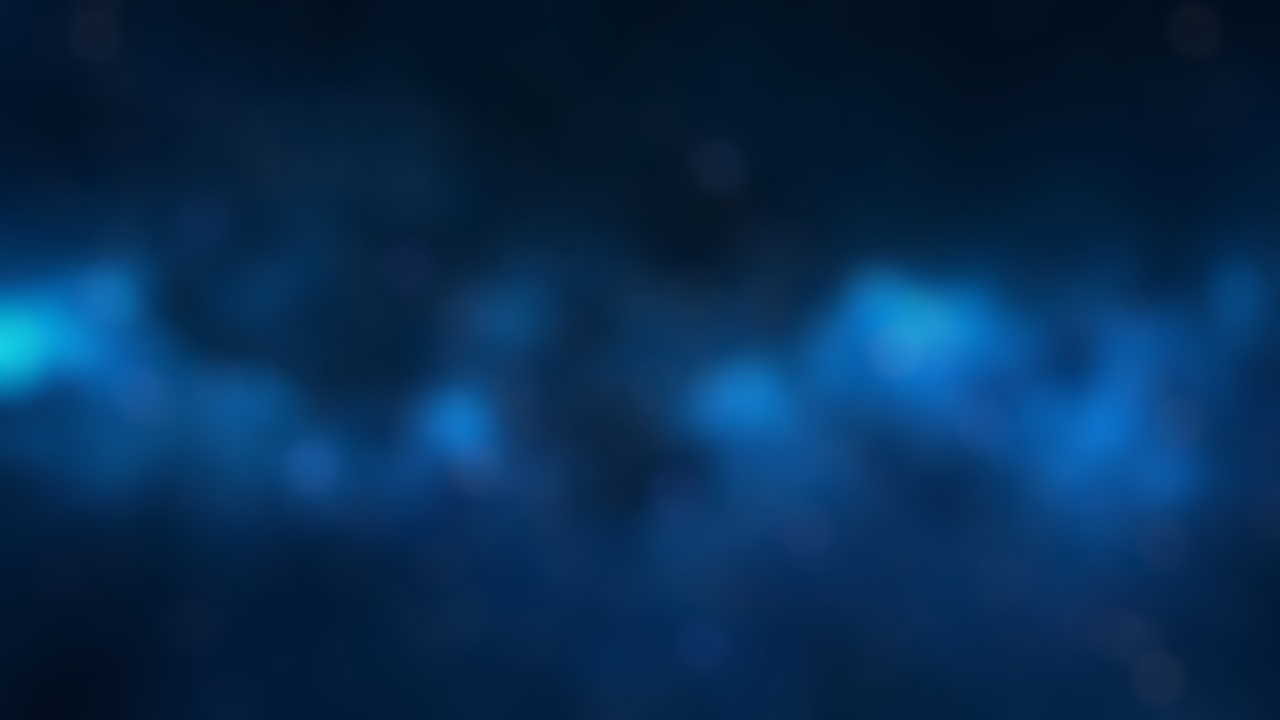
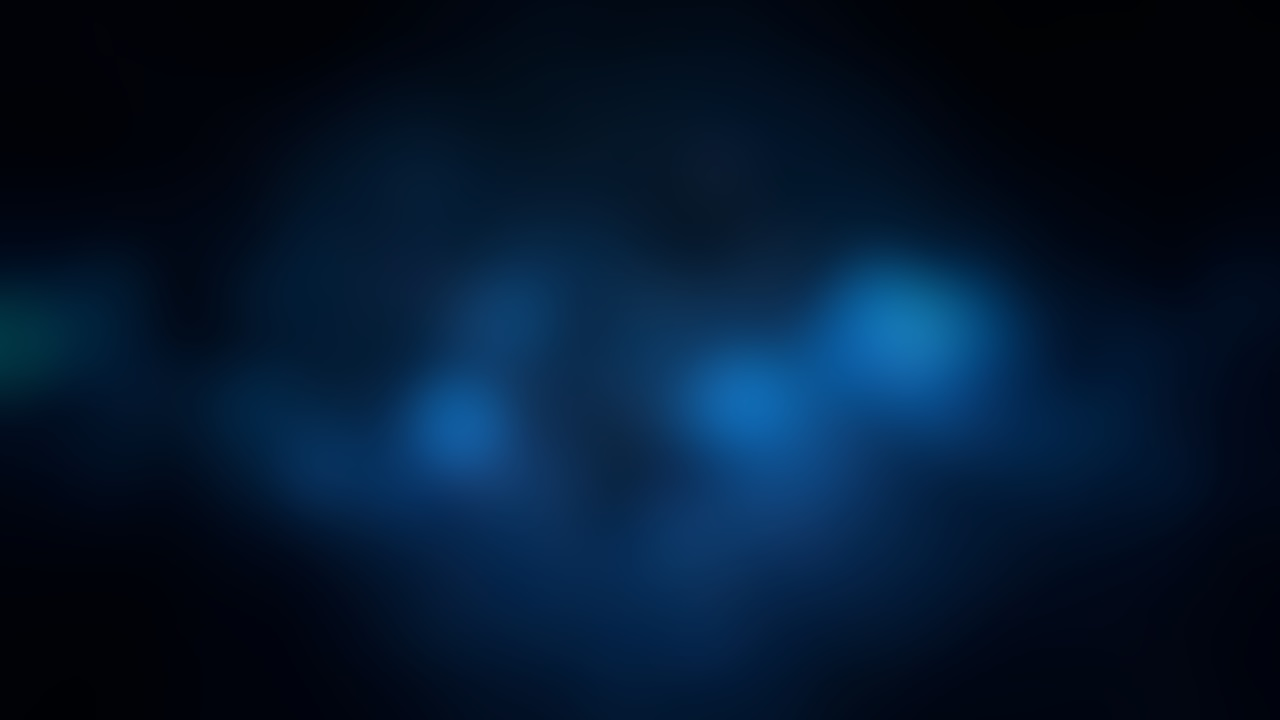
gui design

diff --git a/Fahrer.html b/Fahrer.html
@@ -25,38 +25,37 @@
     <div class="content">
         <div class="heading">Fahrer</div>
 
-        <h3>Müller, Freßgasse 11, 65000 Frankfurt</h3>
+        <section class="order">
+            <form action="https://wwwold.fbi.h-da.de/cgi-bin/Echo.pl">
+                <div class="customername">Mock-Name</div>|
+                <div class="customeradress">Mock-Adresse</div>
+                <section class="price">Preis: 13€</section>
+                <div class="customerform">
+                    <div class="radio-group">
+                        <input type="radio" id="option-one" name="order" value="baked"><label for="option-one">Gebacken</label>
+                        <input type="radio" id="option-two" name="order" value="onroad"><label for="option-two">Unterwegs</label>
+                        <input type="radio" id="option-three" name="order" value="delivered"><label for="option-three">Ausgeliefert</label>
+                    </div>
+                    <input class="button" type="submit" value="Submit">
+                </div>
+            </form>
+        </section>
+        <section class="order">
+            <form action="https://wwwold.fbi.h-da.de/cgi-bin/Echo.pl">
+                <div class="customername">Mock-Name</div>|
+                <div class="customeradress">Mock-Adresse</div>
+                <section class="price">Preis: 13€</section>
+                <div class="customerform">
+                    <div class="radio-group">
+                        <input type="radio" id="option-one" name="order" value="baked"><label for="option-one">Gebacken</label>
+                        <input type="radio" id="option-two" name="order" value="onroad"><label for="option-two">Unterwegs</label>
+                        <input type="radio" id="option-three" name="order" value="delivered"><label for="option-three">Ausgeliefert</label>
+                    </div>
+                    <input class="button" type="submit" value="Submit">
+                </div>
+            </form>
+        </section>
 
-        Tonno, Calzone, Margherita, Hawaii, Tonno
-        <br>
-        <br> Preis: 13€
-        <br>
-        <br>gebacken &ensp;unterwegs&ensp; ausgeliefert
-        <form action="https://wwwold.fbi.h-da.de/cgi-bin/Echo.pl">
-            &ensp;&ensp;
-            <input type="radio" name="oder1" value="baked">&emsp;&emsp; &ensp;&ensp;&ensp;
-            <input type="radio" name="oder1" value="onroad">&emsp;&emsp; &ensp;
-            <input type="radio" name="oder1" value="delivered">&emsp;&emsp;
-            <input type="submit" value="Submit">
-        </form>
-
-        <br>
-        <br>
-
-        <h3>Meier, Haupstr 5</h3>
-
-        Tonno, Tonno, Margherita
-        <br>
-        <br> Preis: 10,50€
-        <br>
-        <br>gebacken &ensp;unterwegs&ensp; ausgeliefert
-        <form action="https://wwwold.fbi.h-da.de/cgi-bin/Echo.pl">
-            &ensp;&ensp;
-            <input type="radio" name="oder1" value="baked">&emsp;&emsp; &ensp;&ensp;&ensp;
-            <input type="radio" name="oder1" value="onroad">&emsp;&emsp; &ensp;
-            <input type="radio" name="oder1" value="delivered">&emsp;&emsp;
-            <input type="submit" value="Submit">
-        </form>
     </div>
 </body>
 

diff --git a/Baecker.html b/Baecker.html
@@ -28,38 +28,16 @@
     <div class="content">
         <div class="heading">Bäcker</div>
 
-        &emsp;&emsp;&emsp;&emsp;Bestellt &ensp;im Ofen&ensp; Fertig
-
         <form action="https://wwwold.fbi.h-da.de/cgi-bin/Echo.pl">
-            <div>
-                Margherita
-
-                <input type="radio" name="margherita" value="ordered">&emsp;&emsp;
-                <input type="radio" name="margherita" value="stove">&emsp;&emsp;
-                <input type="radio" name="margherita" value="done">&emsp;&emsp;
-
+            <h3>Mock-Pizza</h3>
+            <div class="pizzaform">
+                <div class="radio-group">
+                    <input type="radio" id="option-one" name="pizza" value="ordered"><label for="option-one">Bestellt</label>
+                    <input type="radio" id="option-two" name="pizza" value="stove"><label for="option-two">Ofen</label>
+                    <input type="radio" id="option-three" name="pizza" value="done"><label for="option-three">Fertig</label>
+                </div>
+                <input class="button" type="submit" value="Submit">
             </div>
-
-            <div>
-                Margherita
-
-                <input type="radio" name="margherita1" value="ordered">&emsp;&emsp;
-                <input type="radio" name="margherita1" value="stove">&emsp;&emsp;
-                <input type="radio" name="margherita1" value="done">&emsp;&emsp;
-
-            </div>
-
-            <div>
-                Hawaii
-                &emsp;&ensp;
-                <input type="radio" name="hawaii" value="ordered">&emsp;&emsp;
-                <input type="radio" name="hawaii" value="stove">&emsp;&emsp;
-                <input type="radio" name="hawaii" value="done">&emsp;&emsp;
-
-            </div>
-
-
-            <input type="submit" value="Submit">
         </form>
     </div>
 </body>

diff --git a/css/fahrer.css b/css/fahrer.css
@@ -4,13 +4,12 @@ body {
     background-repeat: no-repeat;
     background-attachment: fixed;
     color: whitesmoke;
-
 }
 
 .content {
     padding: 2em;
     max-width: 700px;
-    background-color: rgba(255, 255, 255, 0.6);
+    background-color: rgba(255, 255, 255, 0.3);
     margin: auto;
 }
 
@@ -22,4 +21,82 @@ body {
     font-size: 2em;
     border-bottom: 1px solid white;
     margin-bottom: 1em;
+}
+.order{
+    margin-bottom: 3em;
+}
+
+.customername {
+    font-size: 1.3em;
+    margin-right: 0.5em;
+    display: inline;
+}
+
+.price {
+    font-size: 1em;
+    margin-top: 0.5em;
+    margin-bottom: 0.5em;
+}
+
+.customeradress {
+    font-size: 1.3em;
+    display: inline;
+    margin-left: 0.5em;
+}
+
+input[type=radio] {
+    position: absolute;
+    visibility: hidden;
+    display: none;
+}
+
+.kundeform {
+    margin: 2em;
+}
+
+label {
+    flex-shrink: 1;
+    flex-basis: auto;
+    text-align: center;
+    color: white;
+    display: inline-block;
+    cursor: pointer;
+    padding: 0.5em 1em 0.5em 1em;
+    flex: 1;
+}
+
+input[type=radio]:checked+label {
+    font-weight: bold;
+    background: rgba(255, 255, 255, 0.3);
+}
+
+.radio-group {
+    border: solid 2px white;
+    display: inline-block;
+    vertical-align: middle;
+    border-radius: 5px;
+    overflow: hidden;
+    display: flex;
+    flex-wrap: wrap;
+    align-items: stretch;
+}
+
+.button {
+    margin: 1em 0 2em 0;
+    vertical-align: middle;
+    display: inline;
+    width: 100%;
+    background-color: transparent;
+    border: solid 2px white;
+    color: white;
+    padding: 0.5em 1em 0.5em 1em;
+    text-align: center;
+    display: inline-block;
+    font-size: 1em;
+    border-radius: 5px;
+    cursor: pointer;
+}
+
+.button:hover {
+    background: rgba(255, 255, 255, 0.2);
 }

diff --git a/css/baecker.css b/css/baecker.css
@@ -9,7 +9,7 @@ body {
 .content {
     padding: 2em;
     max-width: 700px;
-    background-color: rgba(255, 255, 255, 0.6);
+    background-color: rgba(255, 255, 255, 0.3);
     margin: auto;
 }
 
@@ -21,4 +21,61 @@ body {
     font-size: 2em;
     border-bottom: 1px solid white;
     margin-bottom: 1em;
+}
+
+input[type=radio] {
+    position: absolute;
+    visibility: hidden;
+    display: none;
+}
+
+.pizzaform {
+    margin: 2em;
+}
+
+label {
+    flex-shrink: 1;
+    flex-basis: auto;
+    text-align: center;
+    color: white;
+    display: inline-block;
+    cursor: pointer;
+    padding: 0.5em 1em 0.5em 1em;
+    flex: 1;
+}
+
+input[type=radio]:checked+label {
+    font-weight: bold;
+    background: rgba(255, 255, 255, 0.3);
+}
+
+.radio-group {
+    border: solid 2px white;
+    display: inline-block;
+    vertical-align: middle;
+    border-radius: 5px;
+    overflow: hidden;
+    display: flex;
+    flex-wrap: wrap;
+    align-items: stretch;
+}
+
+.button {
+    margin-top: 1em;
+    vertical-align: middle;
+    display: inline;
+    width: 100%;
+    background-color: transparent;
+    border: solid 2px white;
+    color: white;
+    padding: 0.5em 1em 0.5em 1em;
+    text-align: center;
+    display: inline-block;
+    font-size: 1em;
+    border-radius: 5px;
+    cursor: pointer;
+}
+
+.button:hover {
+    background: rgba(255, 255, 255, 0.2);
 }

diff --git a/css/bestellung.css b/css/bestellung.css
@@ -19,7 +19,7 @@ body {
 .content {
     padding: 2em;
     max-width: 700px;
-    background-color: rgba(255, 255, 255, 0.6);
+    background-color: rgba(255, 255, 255, 0.3);
     margin: auto;
 }
 
@@ -73,15 +73,18 @@ body {
 .button {
     width: 12em;
     background-color: transparent;
-    border: solid;
-    border-color: whitesmoke;
+    border: solid 2px white;
     color: white;
     padding: 15px 32px;
     text-align: center;
     display: inline-block;
-    font-size: 16px;
+    font-size: 1em;
     margin: 4px 2px;
     cursor: pointer;
+    border-radius: 5px;
+}
+.button:hover{
+    background: rgba(255, 255, 255, 0.2);
 }
 
 .buttons {

diff --git a/css/nav.css b/css/nav.css
@@ -10,7 +10,7 @@ body {
 
 .navbar {
     font-size: 25px;
-    background: #01162c;
+    background: #00070f;
     border: 1px solid rgba(0, 0, 0, 0.2);
     padding-bottom: 10px;
 }
@@ -51,7 +51,7 @@ body {
     display: block;
 }
 
-@media screen and (min-width: 550px) {
+@media screen and (min-width: 670px) {
     .navbar {
         display: flex;
         justify-content: space-between;

diff --git a/css/lieferung.css b/css/lieferung.css
@@ -9,7 +9,7 @@ body {
 .content {
     padding: 2em;
     max-width: 700px;
-    background-color: rgba(255, 255, 255, 0.6);
+    background-color: rgba(255, 255, 255, 0.3);
     margin: auto;
 }
 
